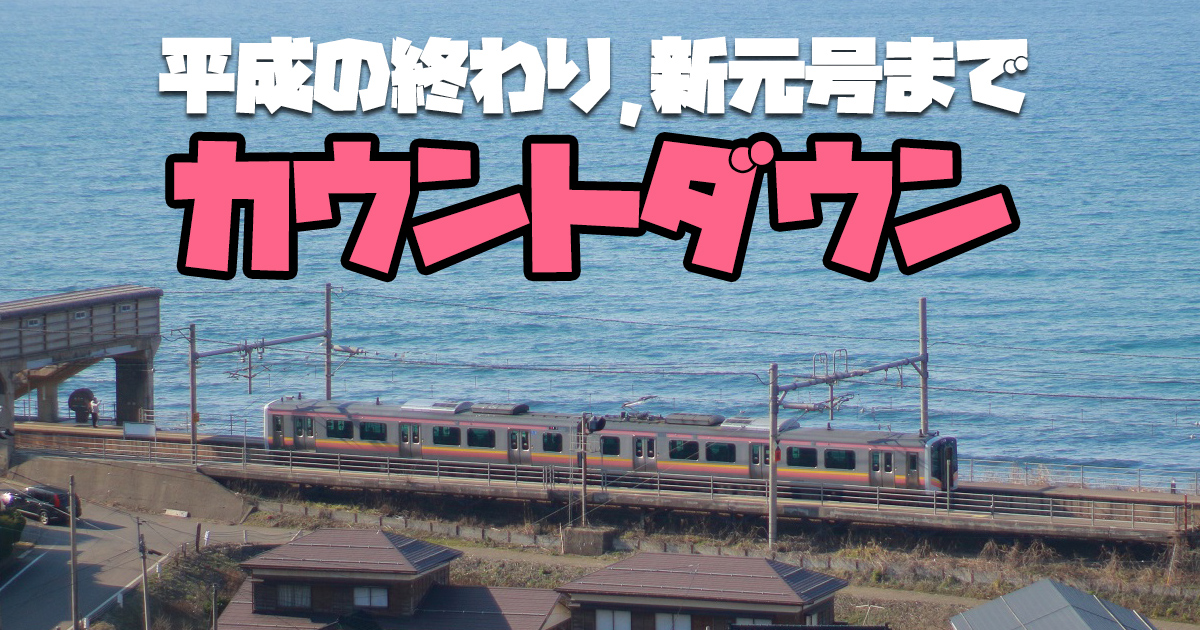
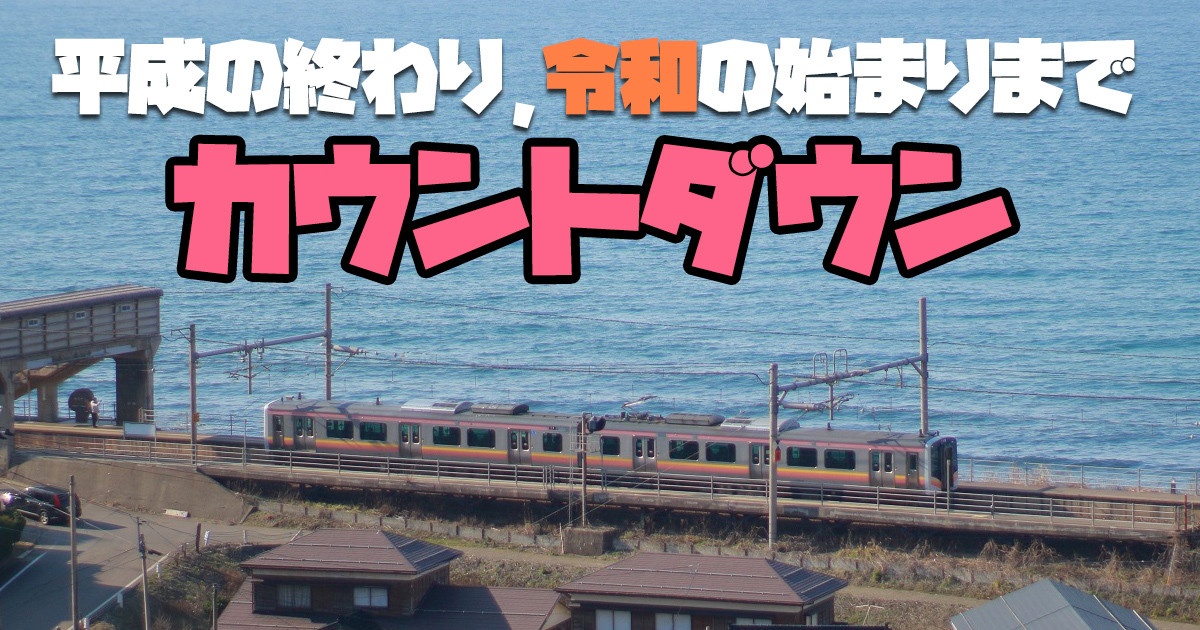
7th commit
カウントダウン元号を更新

diff --git a/countdown/new_era_name.html b/countdown/new_era_name.html
@@ -1,7 +1,7 @@
 <!DOCTYPE html>
 <html lang="ja">
 <head>
-	<title>平成の終わり,新元号施行までカウントダウン</title>
+	<title>平成の終わり,令和の始まりまでカウントダウン</title>
 	<meta charset="UTF-8">
 	<meta name="viewport" content="width=device-width, initial-scale=1">
 <!--===============================================================================================-->	
@@ -39,7 +39,7 @@
 		<!--  -->
 		<div class="flex-col-c-m p-l-15 p-r-15 p-t-50 p-b-120">
 			<h3 class="l1-txt1 txt-center p-b-40 respon1">
-				平成の終わり,新元号施行まで
+				平成の終わり,令和の始まりまで
 			</h3>
 
 			<div class="flex-w flex-c-m cd100">
@@ -120,7 +120,7 @@
 <meta name="twitter:card" content="summary_large_image" />
 <meta name="twitter:site" content="@shun15_main" />
 <meta property="og:url" content="https://ikeshun15.github.io/countdown/new_era_name.html" />
-<meta property="og:title" content="平成の終わり,新元号までカウントダウン" />
-<meta property="og:description" content="平成の終わり,新元号までのカウントダウンページです。" />
+<meta property="og:title" content="平成の終わり,令和の始まりまでカウントダウン" />
+<meta property="og:description" content="平成の終わり,令和の始まりまでのカウントダウンページです。" />
 <meta property="og:image" content="https://ikeshun15.github.io/countdown/images/TwitterCard.jpg" />
 </html>
